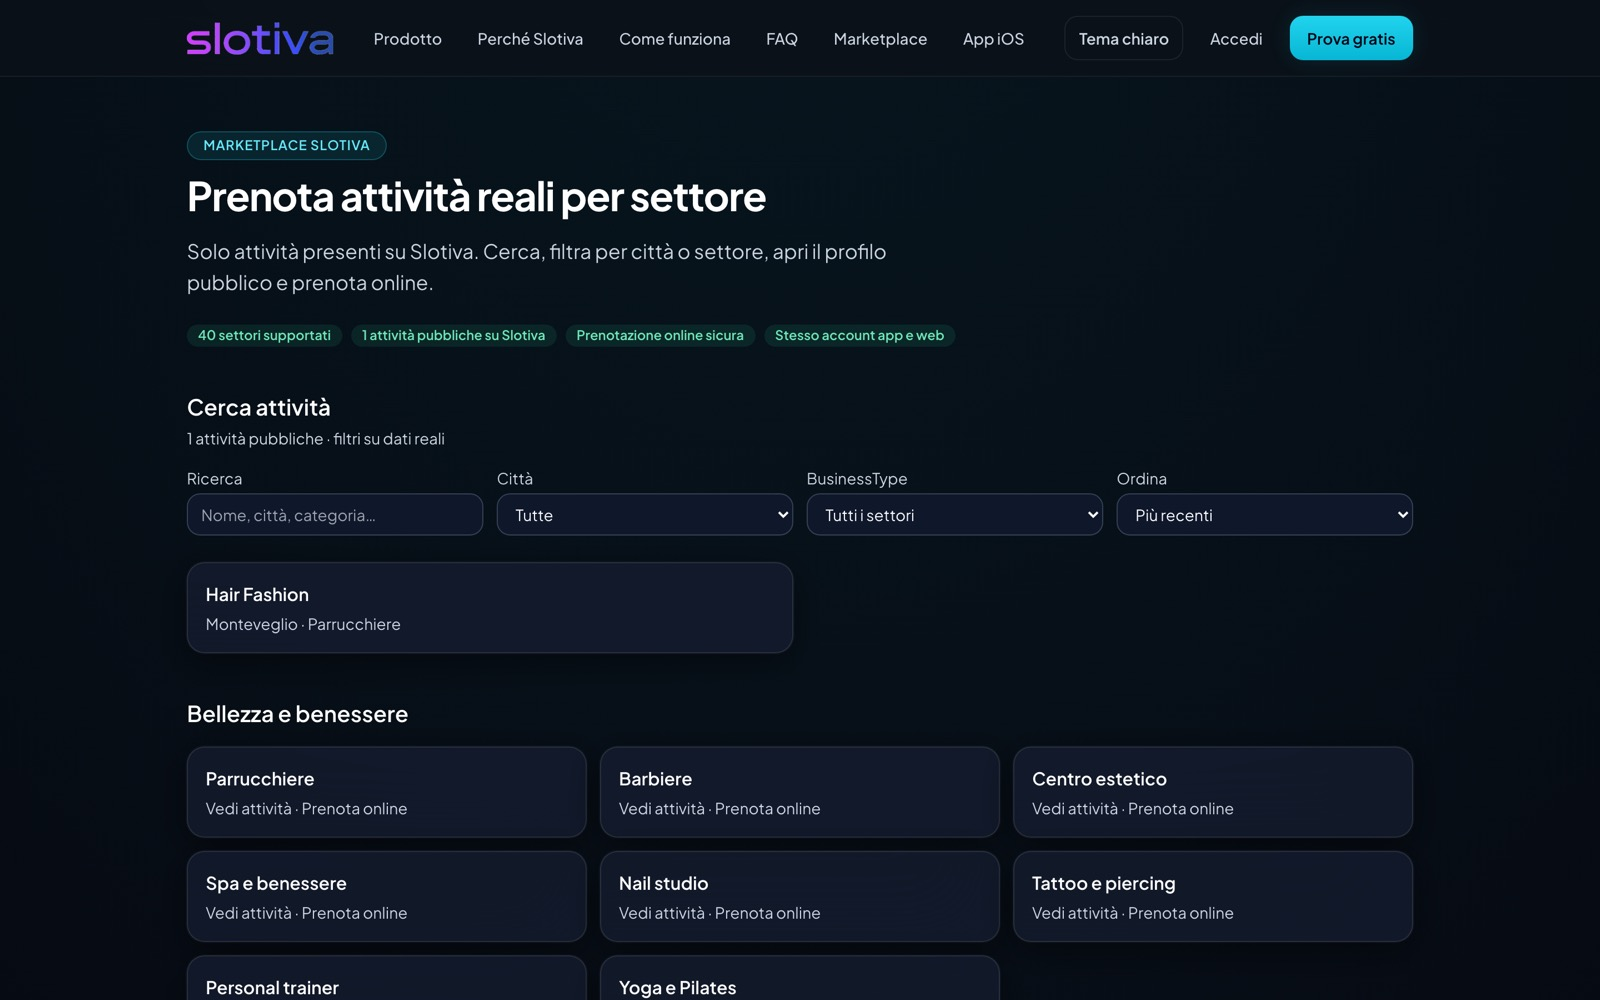
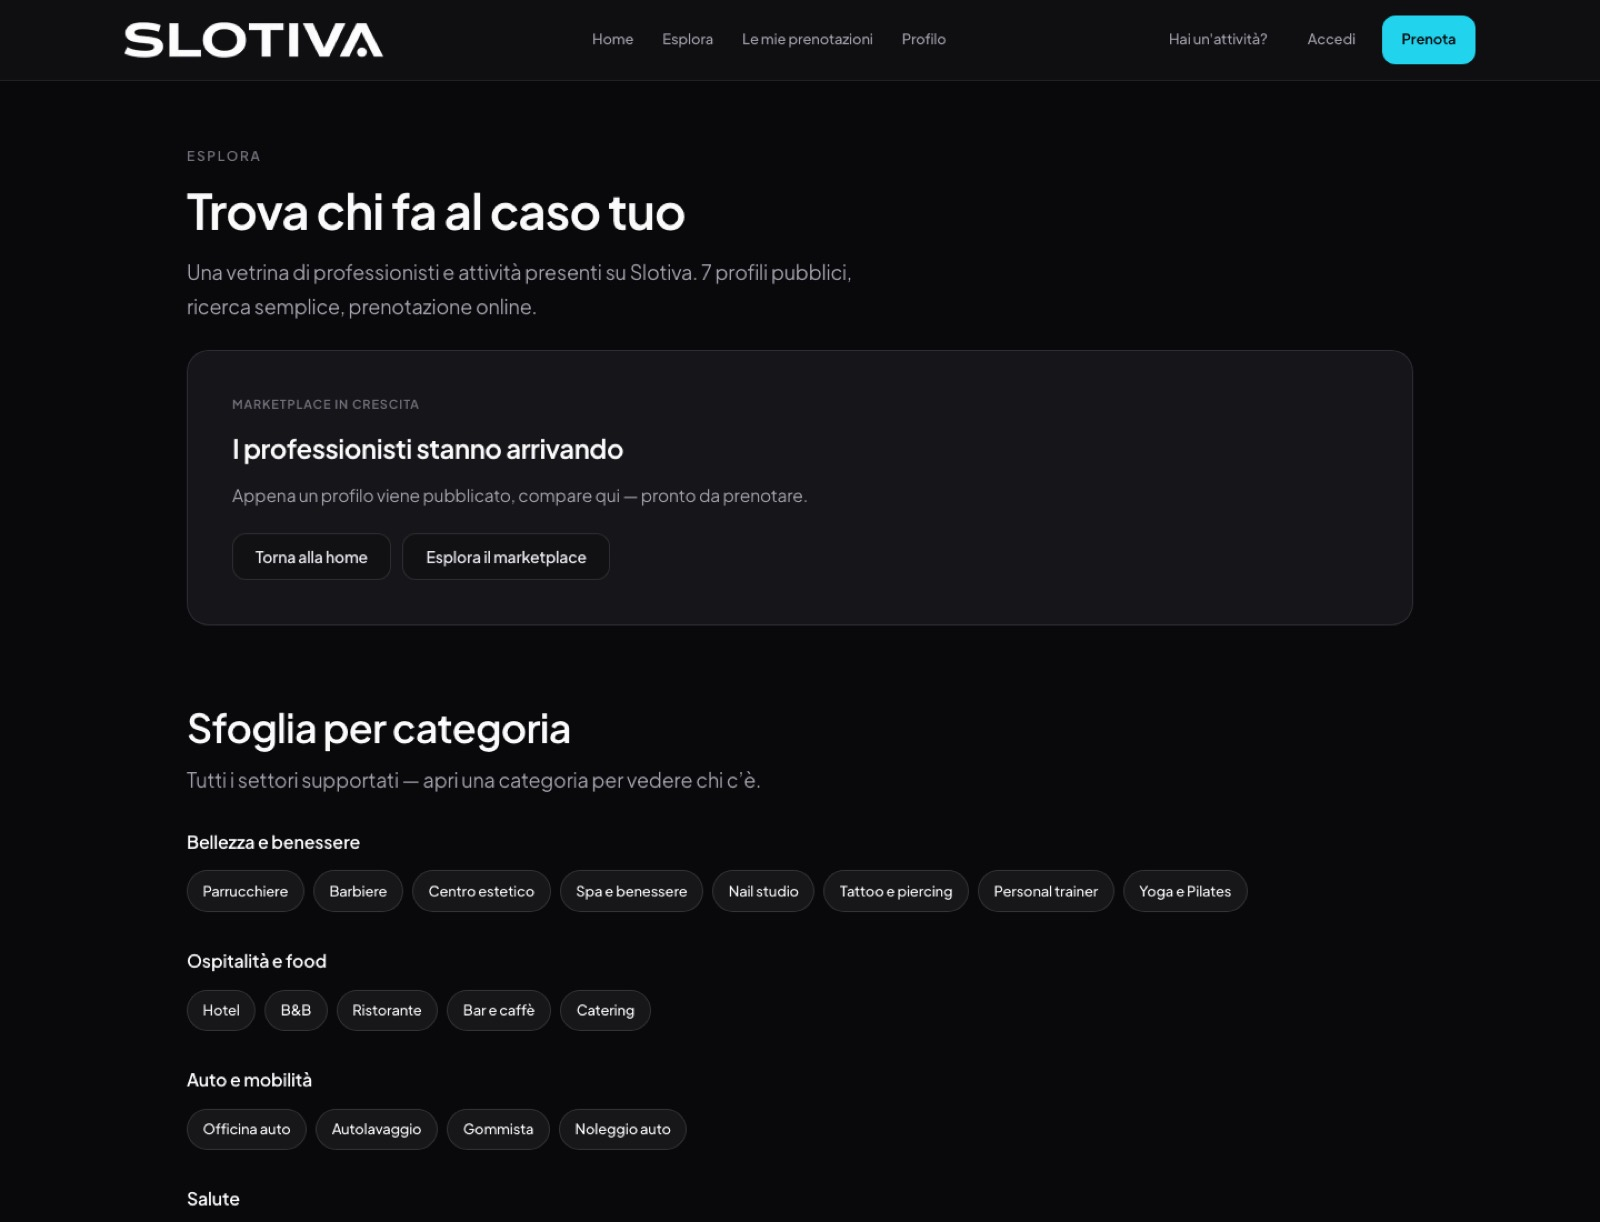
Replace outdated Slotiva marketplace screenshots with live production UI.
Use current www.slotiva.it Home and Esplora captures instead of the legacy marketing marketplace frame.

diff --git a/src/config/slotiva-sales.ts b/src/config/slotiva-sales.ts
@@ -94,18 +94,18 @@ export const slotivaSales = {
     marketplace: {
       title: "Marketplace",
       outcome:
-        "Un canale pubblico che riempie l’agenda: profilo, servizi e prenotazione online allineati al tuo Business Portal.",
+        "Un canale pubblico che riempie l’agenda: i clienti cercano, confrontano e prenotano su www.slotiva.it — stesso account dell’app.",
       shots: [
         {
-          src: "/images/apps/slotiva/marketplace/marketplace.jpg",
-          alt: "Slotiva marketplace — scoperta attività locali",
-          caption: "Marketplace",
+          src: "/images/apps/slotiva/marketplace/home.jpg",
+          alt: "Slotiva marketplace — home prenotazione online attuale",
+          caption: "Home marketplace",
           wide: true,
         },
         {
-          src: "/images/apps/slotiva/marketplace/public-profile.jpg",
-          alt: "Slotiva — profilo pubblico attività",
-          caption: "Profilo pubblico",
+          src: "/images/apps/slotiva/marketplace/marketplace.jpg",
+          alt: "Slotiva marketplace — Esplora professionisti e attività",
+          caption: "Esplora",
           wide: true,
         },
       ],
